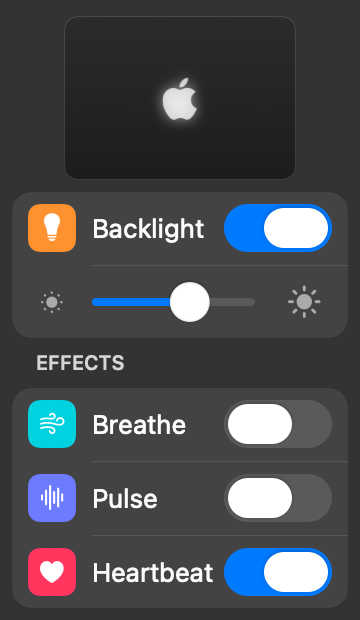
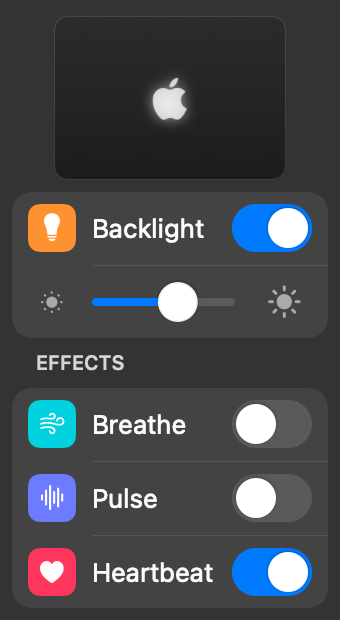
Go back to the 40 x 24 round-knob switch, in a 170-point panel
The user approved the iOS-proportioned switch over NSSwitch's 54 x 24
capsule, which overrides the size 59ef847 gave it. The knob is round again,
20 across and 2 points in, and it can still be dragged.

The narrower switch lets the panel be the 170 points the user asked for.
The switches still end 8 points from the card's edge, like the tiles start,
and "Heartbeat" (61 pt, 64 with Bold Text) has 66 points between its tile
and its switch. The renderer reports no truncated label. docs/menu.png is
re-rendered at that width, and the README shows it at 170.

diff --git a/Sources/LogoLight/LogoSwitch.swift b/Sources/LogoLight/LogoSwitch.swift
@@ -6,10 +6,11 @@ import AppKit
 /// menu's window key, a moment after the menu appears, and is grey until then. This one uses the accent
 /// colour from the first frame, like `LogoSlider`, and animates only when it's flipped.
 final class LogoSwitch: NSControl {
-    /// The size of a regular `NSSwitch` on macOS 27, measured from one drawn offscreen: a 54 × 24 track
-    /// with a 32 × 20 capsule for a knob, 2 points in from the edges.
-    static let size = NSSize(width: 54, height: 24)
-    private static let knobSize = NSSize(width: 32, height: 20)
+    /// A 40 × 24 track with a round knob 20 across, 2 points in from the edges: about the proportions
+    /// of an iOS switch. (The user chose it over the size of a regular `NSSwitch`, 54 × 24 with a
+    /// capsule for a knob.)
+    static let size = NSSize(width: 40, height: 24)
+    private static let knobDiameter: CGFloat = 20
     private static let knobInset: CGFloat = 2
     /// How far the pointer moves before a press becomes a drag of the knob.
     private static let dragThreshold: CGFloat = 3
@@ -110,9 +111,9 @@ final class LogoSwitch: NSControl {
         withoutAnimation {
             track.frame = bounds
             fill.frame = track.bounds
-            knob.bounds = CGRect(origin: .zero, size: Self.knobSize)
+            knob.bounds = CGRect(x: 0, y: 0, width: Self.knobDiameter, height: Self.knobDiameter)
             for layer in [track, fill] { layer.cornerRadius = bounds.height / 2 }
-            knob.cornerRadius = Self.knobSize.height / 2
+            knob.cornerRadius = Self.knobDiameter / 2
             knob.position = knobCenter
             fill.opacity = isOn ? 1 : 0
         }
@@ -120,7 +121,7 @@ final class LogoSwitch: NSControl {
 
     /// The knob's centre when it's off and when it's on.
     private var knobRange: ClosedRange<CGFloat> {
-        let offX = Self.knobInset + Self.knobSize.width / 2
+        let offX = Self.knobInset + Self.knobDiameter / 2
         return offX...max(offX, bounds.width - offX)
     }
 

diff --git a/Sources/LogoLight/ControlPanel.swift b/Sources/LogoLight/ControlPanel.swift
@@ -10,9 +10,10 @@ final class ControlPanel: NSView {
     var onBrightnessChanged: ((Double) -> Void)?
     var onEffectChosen: ((LogoEffect) -> Void)?
 
-    /// Narrow: the least that fits the longest label ("Heartbeat", 61 pt at 13 pt) between its tile and a
-    /// full-size switch is 179. The menu's own items need only 143, or 153 with Disable Password.
-    private static let width: CGFloat = 180
+    /// As narrow as the user asked for. The longest label, "Heartbeat" (61 pt at 13 pt, 64 with Bold
+    /// Text), still fits between its tile and its switch, which leave it 66. The menu's own items need
+    /// only 143, or 153 with Disable Password.
+    private static let width: CGFloat = 170
     /// Around the panel's contents (8 at the top), and between its sections.
     private static let inset: CGFloat = 6
     private static let topInset: CGFloat = 8

diff --git a/CLAUDE.md b/CLAUDE.md
@@ -119,14 +119,17 @@ real slider, and greys out with them (one 0.22 s fade of their rows, as soon as 
 flipped, not when the logo's fade ends). The user then asked for the whole menu to be "much more
 narrower", then "a little bit more narrow" and "remove the about logolight option"
 and "the Q shortcut it terrible off to the right side". The menu has no About item and no ⌘Q,
-whose shortcut column alone would make it 190 points wide. The panel is 180 wide, measured:
-- The widest row is Heartbeat's: the text column starts at 40, the label needs 61 (13 pt), then
-  at least 4, the switch 54 and 8 to the card's edge, so 167; plus the 6-point margins, 179.
-  "Backlight" (the user renamed "Apple Logo") needs 56.5, Breathe 47.5, Pulse 33.
+whose shortcut column alone would make it 190 points wide. At their request the panel is 170
+wide, measured:
+- The widest row is Heartbeat's: the text column starts at 40, the label needs 61 (13 pt; 64 with
+  Bold Text), then at least 4, the switch 40 and 8 to the card's edge (the tiles' inset), so 153
+  (156); plus the 6-point margins, 165 (168). "Backlight" (the user renamed "Apple Logo") needs
+  56.5, Breathe 47.5, Pulse 33. The renderer reports no truncated label.
 - The menu's own items need 143 ("Launch at Login", "Quit LogoLight"), or 153 with
   "Disable Password", so the panel sets the menu's width.
-- The switches are the size of a regular `NSSwitch` on macOS 27, measured from one drawn
-  offscreen: a 54 × 24 track with a 32 × 20 capsule knob.
+- The switches are 40 × 24 with a round knob 20 across, about an iOS switch's proportions: the
+  user chose them over a regular `NSSwitch`'s size on macOS 27 (54 × 24 with a 32 × 20 capsule
+  knob, which would need a 179-point panel).
 
 The live view at the top is drawn as the lid of this MacBook Pro in its real proportions and
 its own finish, space black or silver (`MacFinish`, read from the device tree's `housing-color` and
@@ -159,8 +162,8 @@ run `tools/livecheck` and watch the logo):
 
 **Changed since the last look at the real menu** (drawn offscreen only; open the menu with
 `LOGOLIGHT_OPEN_MENU` when the user isn't working):
-- The switches are NSSwitch-sized, with a capsule knob that can also be dragged. Check that
-  they're blue on the very first frame, and that a drag works inside the menu.
+- The switches' knob can also be dragged. Check that they're blue on the very first frame, and
+  that a drag works inside the menu.
 - The menu opens on mouse-down. Check a quick click, press-drag-release onto an item, and that
   Option-click toggles the logo without the menu flashing.
 - After a flip, the switch stays usable and the rows grey out or come back at once. Flip

diff --git a/README.md b/README.md
@@ -3,7 +3,7 @@
 A small macOS menu bar app that controls the illuminated Apple logo on the back of the
 **MacBook Pro with PROLED XDR Display**: on and off, brightness, and glowing effects.
 
-<img src="docs/menu.png" width="180" alt="The LogoLight panel: a live view of the glowing logo, a Backlight switch for the logo with a brightness slider below it, then a switch each for the Breathe, Pulse and Heartbeat effects">
+<img src="docs/menu.png" width="170" alt="The LogoLight panel: a live view of the glowing logo, a Backlight switch for the logo with a brightness slider below it, then a switch each for the Breathe, Pulse and Heartbeat effects">
 
 - An iOS-style panel at the top of the menu. Everything below the logo switch greys out while
   the logo is off
